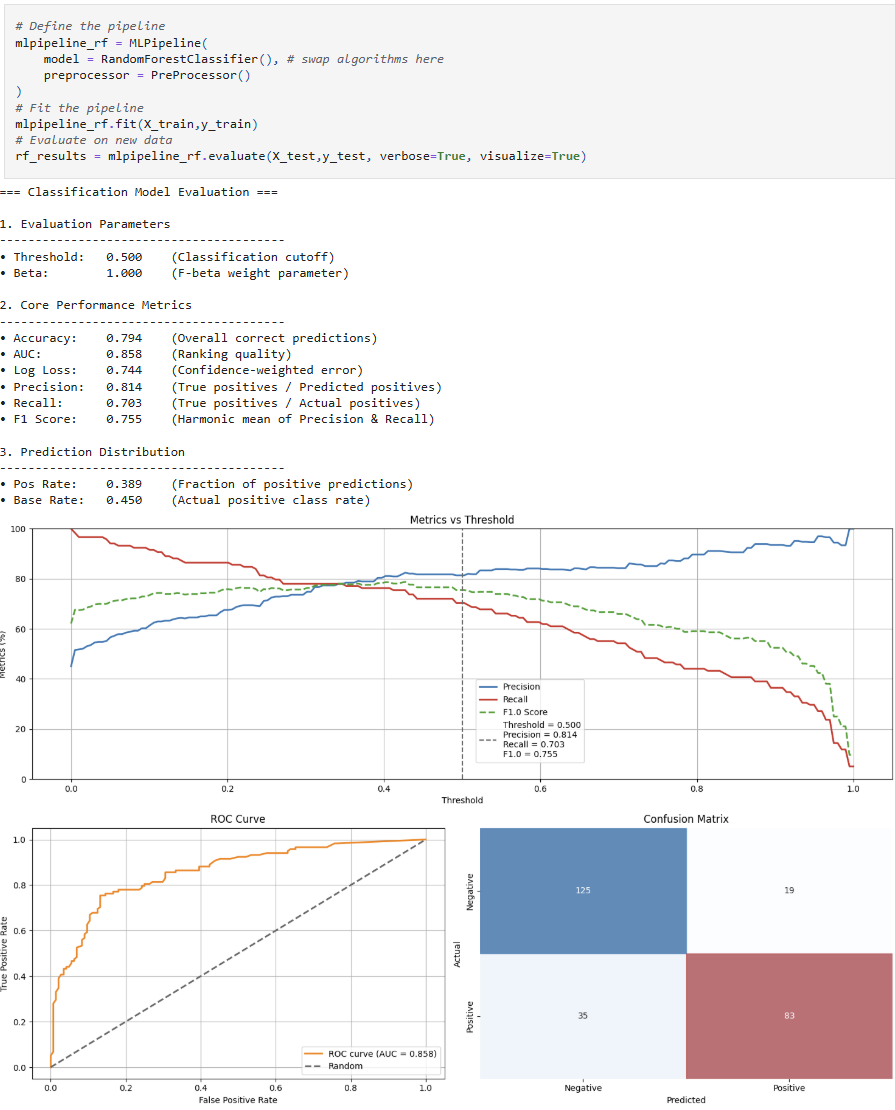
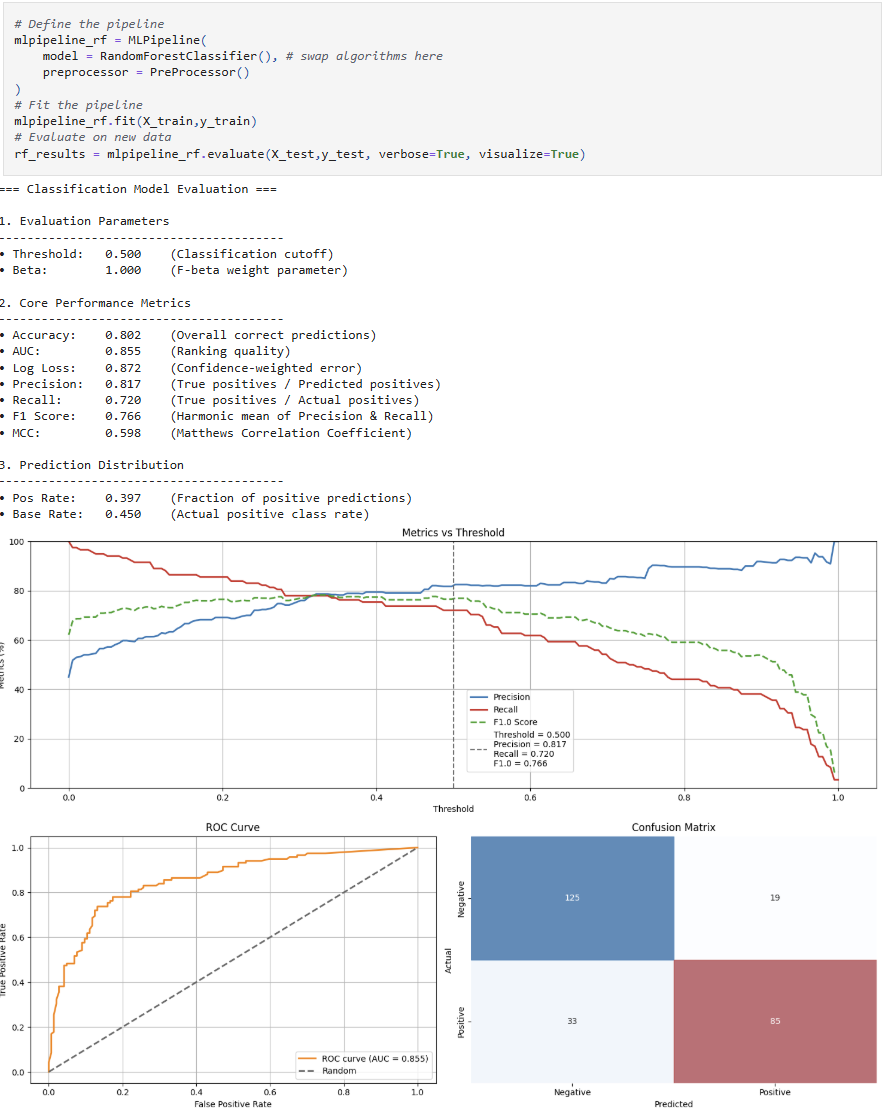
chore: adjust position of the mcc metric
update classification report demo image

diff --git a/mlarena/pipeline.py b/mlarena/pipeline.py
@@ -641,13 +641,13 @@ class MLPipeline(mlflow.pyfunc.PythonModel):
             print(
                 f"• F1 Score:    {metrics['f1']:.3f}    (Harmonic mean of Precision & Recall)"
             )
-            print(
-                f"• MCC:         {metrics['mcc']:.3f}    (Matthews Correlation Coefficient)"
-            )
             if beta != 1:
                 print(
                     f"• F{beta:.1f} Score:  {metrics['f_beta']:.3f}    (Weighted harmonic mean)"
                 )
+            print(
+                f"• MCC:         {metrics['mcc']:.3f}    (Matthews Correlation Coefficient)"
+            )
 
             print("\n3. Prediction Distribution")
             print("-" * 40)

diff --git a/README.md b/README.md
@@ -3,6 +3,7 @@
 [![Python Version](https://img.shields.io/badge/python-3.10%20%7C%203.11%20%7C%203.12-blue.svg)](https://www.python.org/downloads/)
 [![PyPI](https://img.shields.io/pypi/v/mlarena.svg)](https://pypi.org/project/mlarena/)
 [![License: MIT](https://img.shields.io/badge/License-MIT-yellow.svg)](https://opensource.org/licenses/MIT)
+[![Tests](https://img.shields.io/badge/tests-pytest-blue.svg)](https://pytest.org/)
 [![Code style: black](https://img.shields.io/badge/code%20style-black-000000.svg)](https://github.com/psf/black)
 [![Imports: isort](https://img.shields.io/badge/%20imports-isort-%231674b1?style=flat&labelColor=ef8336)](https://pycqa.github.io/isort/)
 [![CI/CD](https://github.com/MenaWANG/mlarena/actions/workflows/mlarena.yml/badge.svg)](https://github.com/MenaWANG/mlarena/actions/workflows/mlarena.yml)
@@ -27,18 +28,18 @@ Read about the concepts and methodologies behind MLArena through these articles:
 The package is undergoing rapid development at the moment (pls see [CHANGELOG](https://github.com/MenaWANG/mlarena/blob/master/CHANGELOG.md) for details), it is therefore highly recommended to install with specific versions. For example
 
 ```bash
-%pip install mlarena==0.3.4
+%pip install mlarena==0.3.5
 ```
 
 If you are using the package in [Databricks ML Cluster with DBR runtime >= 16.0](https://learn.microsoft.com/en-us/azure/databricks/release-notes/runtime/16.0ml), you can install without dependencies like below:
 
 ```bash
-%pip install mlarena==0.3.4 --no-deps
+%pip install mlarena==0.3.5 --no-deps
 ```
 If you are using earlier DBR runtimes, simply install `optuna` in addition like below. Note: As of 2025-04-26, `optuna` is recommended by Databricks, while `hyperopt` will be [removed from Databricks ML Runtime](https://docs.databricks.com/aws/en/machine-learning/automl-hyperparam-tuning/).
 
 ```bash
-%pip install mlarena==0.3.4 --no-deps
+%pip install mlarena==0.3.5 --no-deps
 %pip install optuna==3.6.1
 ```
 

diff --git a/CHANGELOG.md b/CHANGELOG.md
@@ -5,7 +5,7 @@ All notable changes to this project will be documented in this file.
 The format is based on [Keep a Changelog](https://keepachangelog.com/en/1.0.0/),
 and this project adheres to [Semantic Versioning](https://semver.org/spec/v2.0.0.html).
 
-## [0.3.5] - unreleased
+## [0.3.5] - 2025-07-02
 
 ### Added
 - **Model Evaluation Diagnostics** section appears only when potential red flags are detected:           
